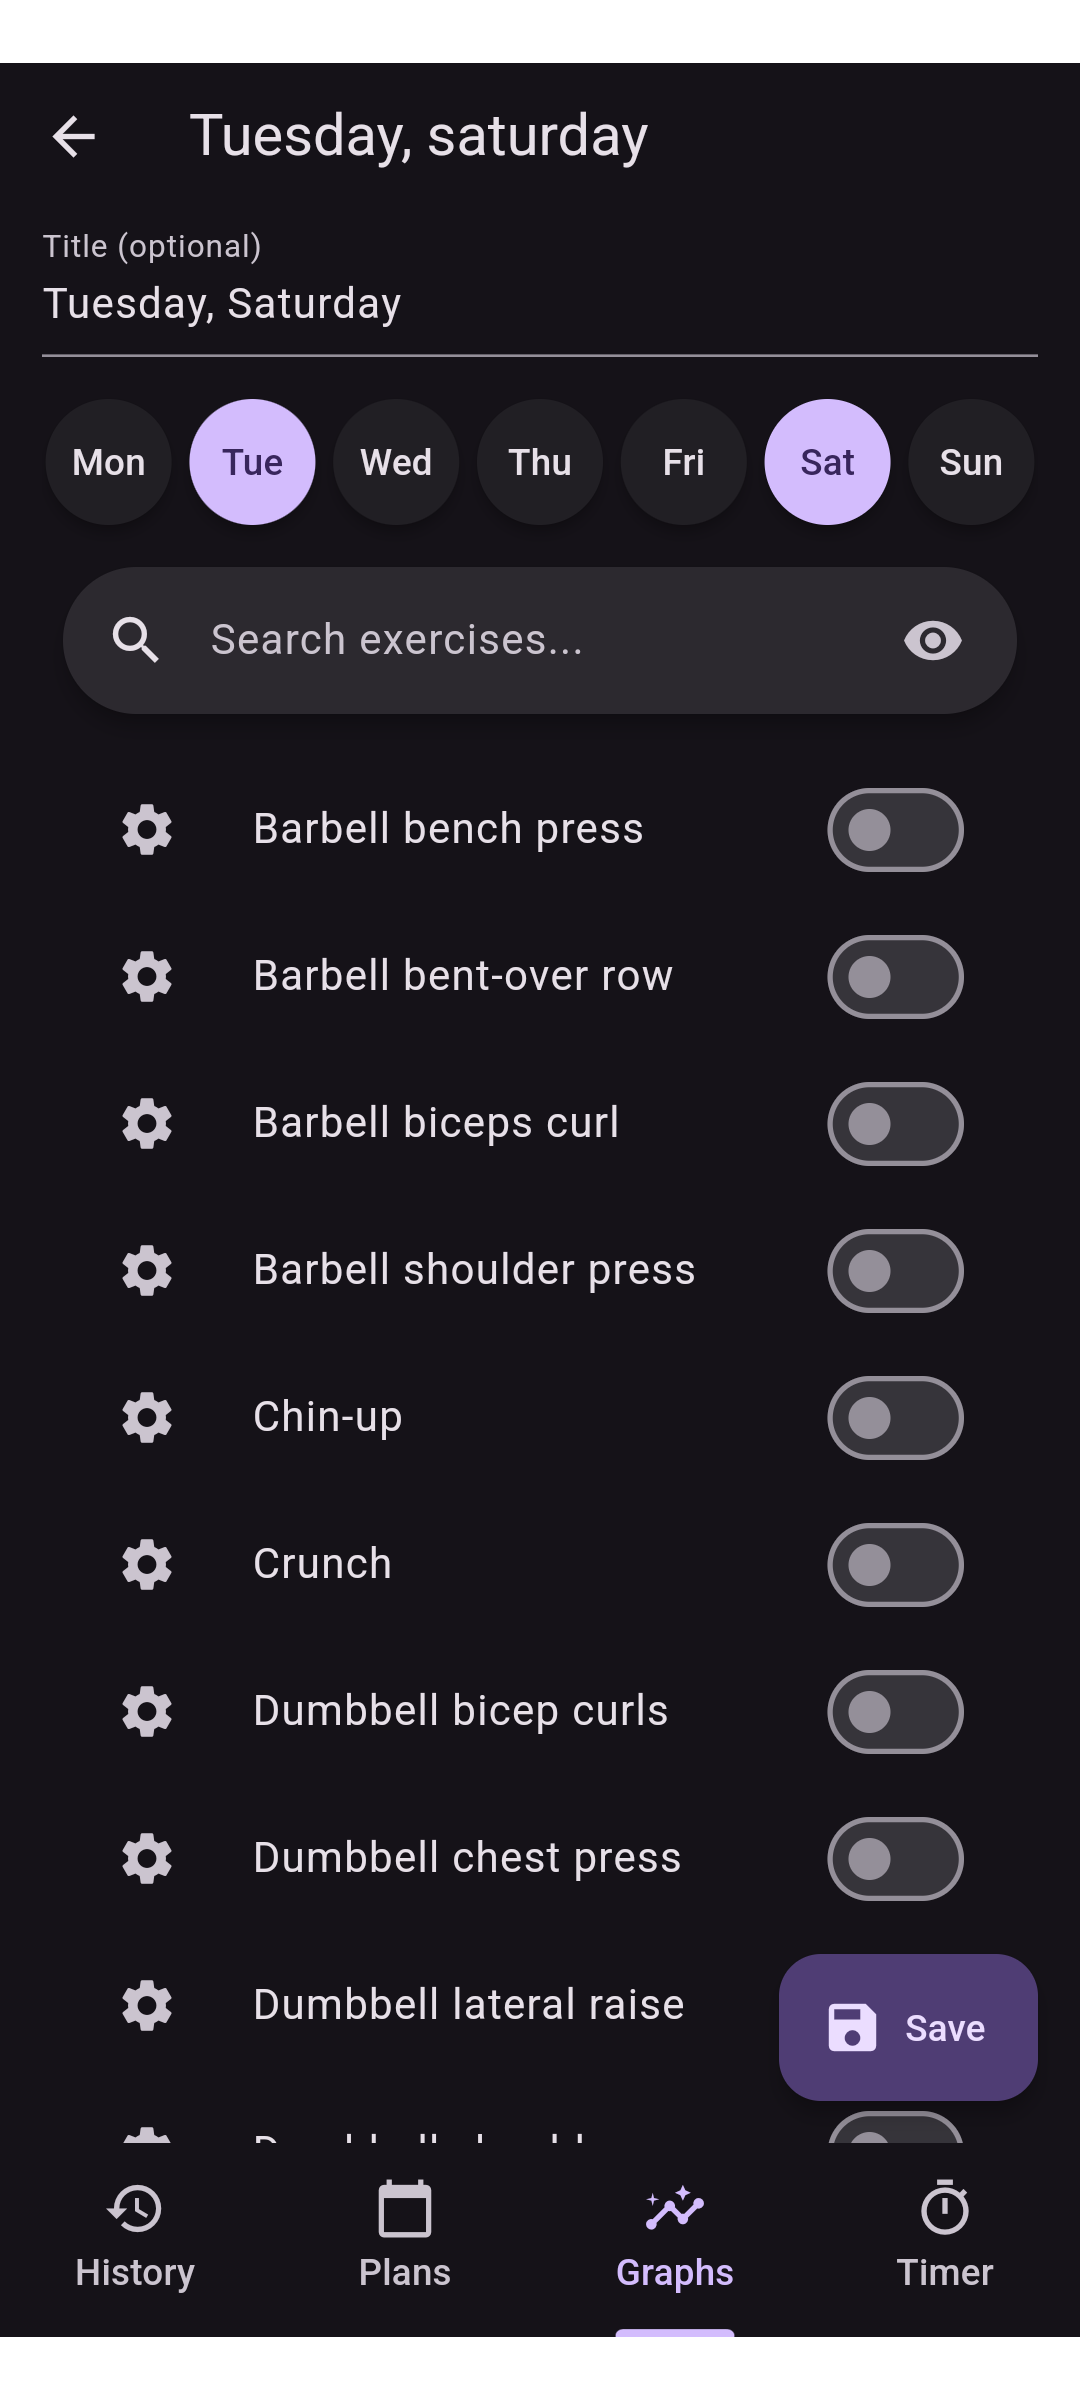
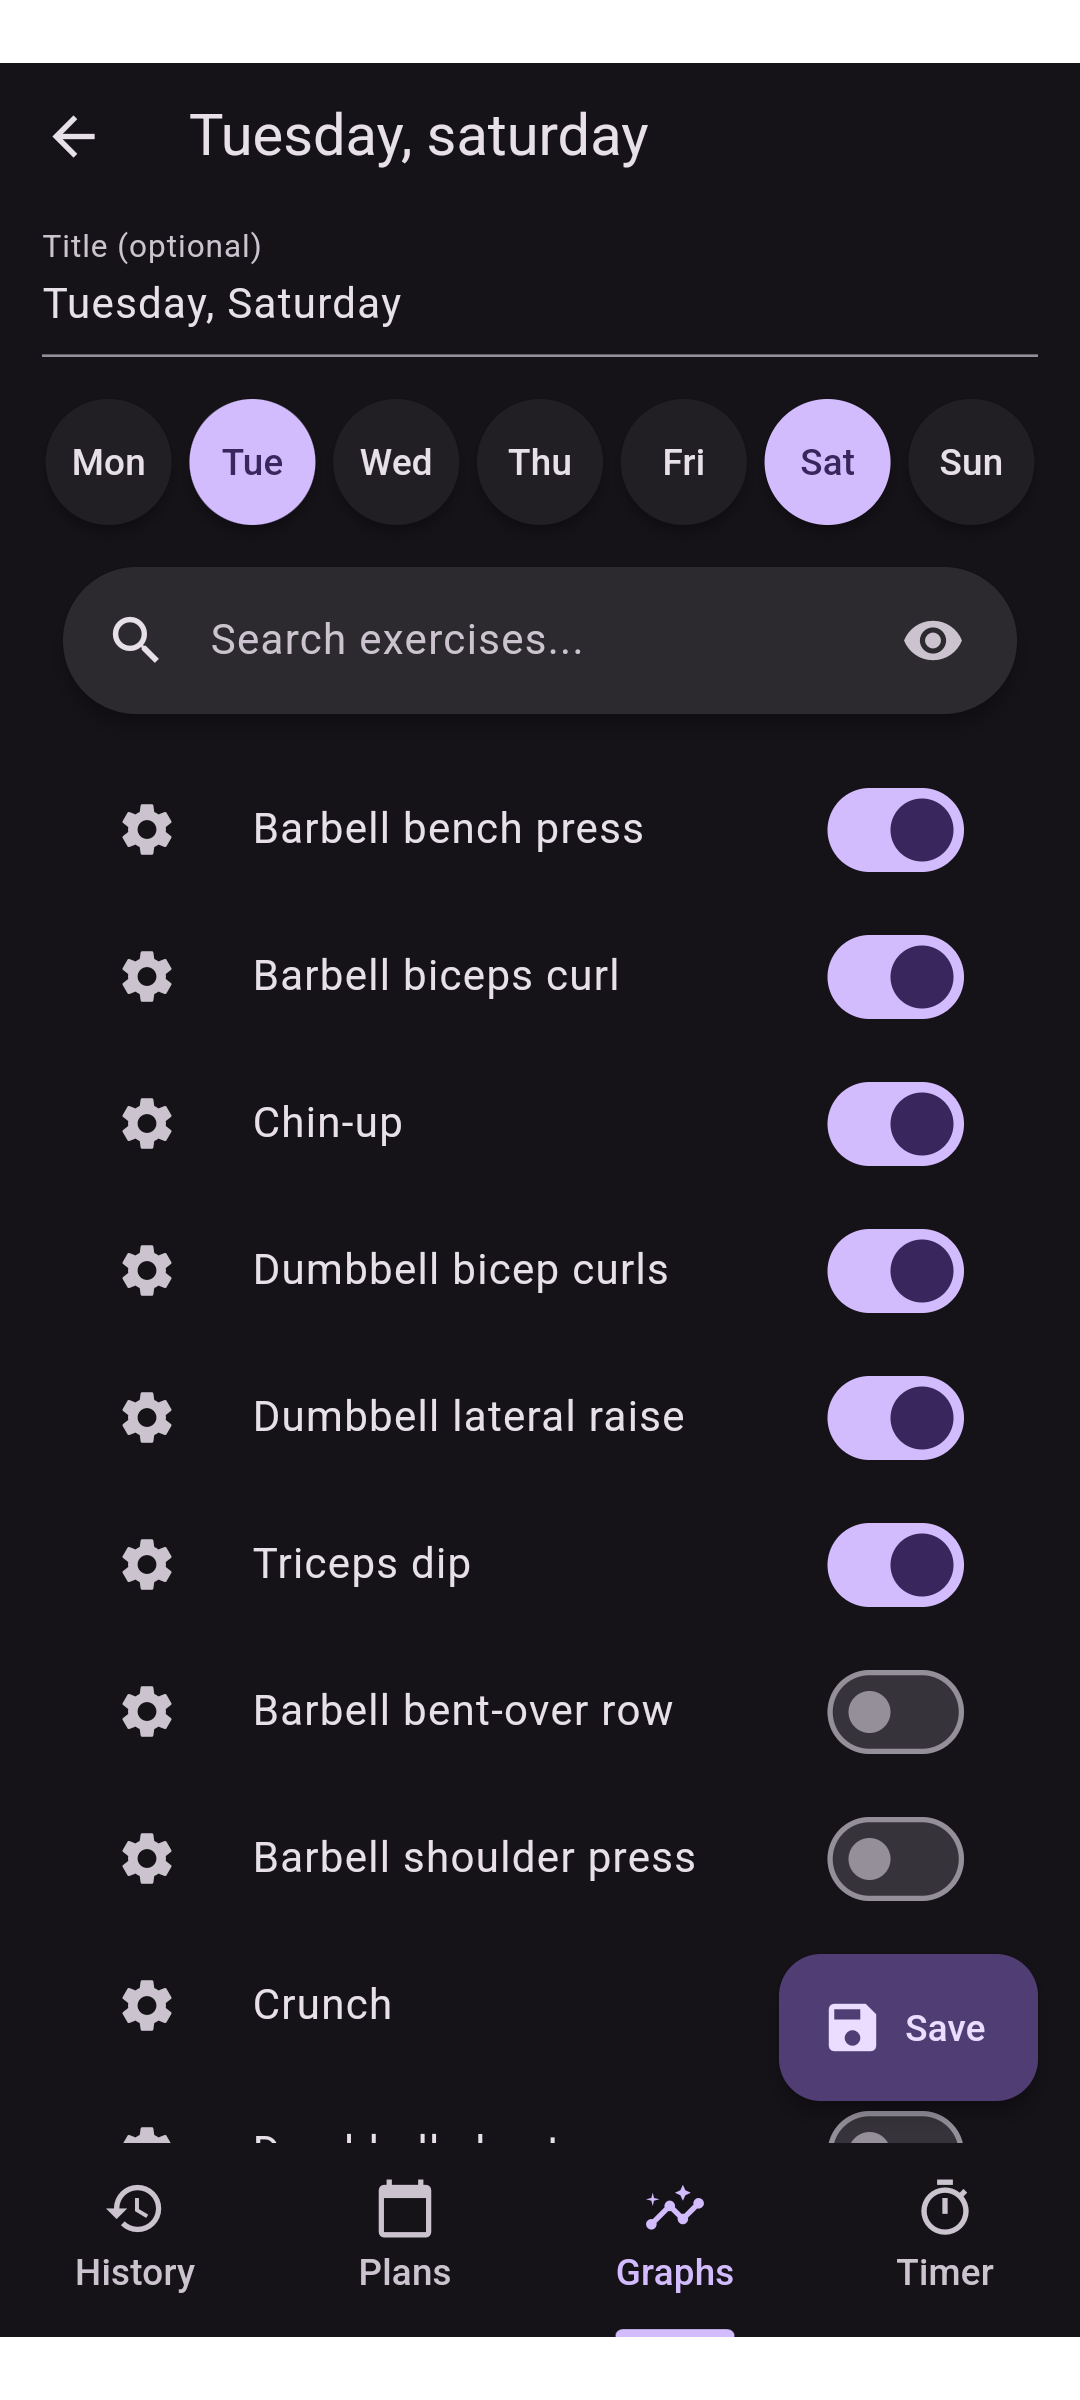
Enable exercises on screenshot for plans

diff --git a/integration_test/screenshot_test.dart b/integration_test/screenshot_test.dart
@@ -242,15 +242,19 @@ void main() {
           );
     }
 
-    for (var element in plans) {
-      final id = await app.db.into(app.db.plans).insert(element);
+    for (var plan in plans) {
+      final id = await app.db.into(app.db.plans).insert(plan);
       var i = 0;
-      for (var exercise in element.exercises.value.split(',')) {
+      final gymSets = await (db.gymSets.selectOnly()
+            ..addColumns([db.gymSets.name])
+            ..groupBy([db.gymSets.name]))
+          .get();
+      for (var result in gymSets) {
         await app.db.planExercises.insertOne(
           PlanExercisesCompanion.insert(
-            enabled: i < 5,
+            enabled: i % 2 == 0,
             timers: Value(true),
-            exercise: exercise,
+            exercise: result.read(db.gymSets.name)!,
             planId: id,
           ),
         );
@@ -365,10 +369,11 @@ void main() {
         screenshotName: '7_en-US',
         navigateToPage: (context) async {
           final state = context.read<PlanState>();
-          await state.setExercises(plans.first);
+          final plan = await (db.plans.select()..limit(1)).getSingle();
+          await state.setExercises(plan.toCompanion(false));
           navigateTo(
             context: context,
-            page: EditPlanPage(plan: plans.first),
+            page: EditPlanPage(plan: plan.toCompanion(false)),
           );
         },
         tabBarState: TabBarState.graphs,
